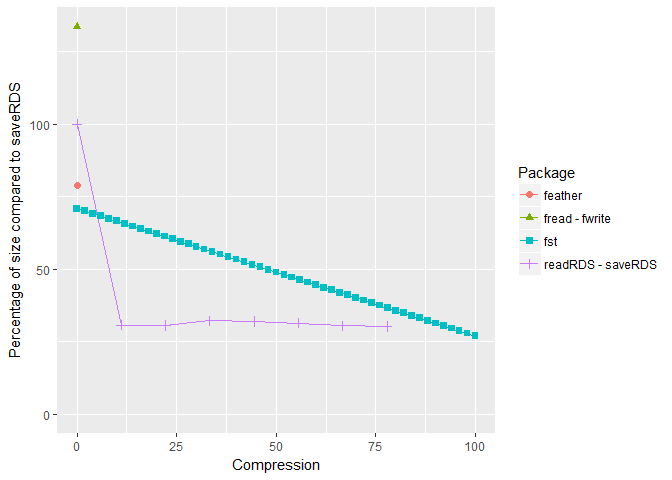
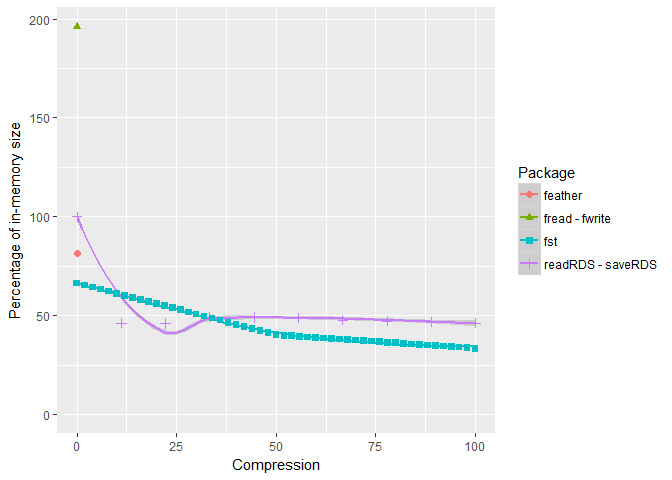
Update README with benchmarks on Xeon CPU

diff --git a/README.md b/README.md
@@ -41,7 +41,7 @@ nrOfRows <- 1e7
 x <- data.frame(
   Integers = 1:nrOfRows,  # integer
   Logicals = sample(c(TRUE, FALSE, NA), nrOfRows, replace = TRUE),  # logical
-  Factors = factor(sample(state.name, nrOfRows, replace = TRUE)),  # text
+  Text = factor(sample(state.name, nrOfRows, replace = TRUE)),  # text
   Numericals = runif(nrOfRows, 0.0, 100),  # numericals
   stringsAsFactors = FALSE)
 
@@ -64,7 +64,7 @@ With `read.fst` you can access a selection of rows from the stored data frame by
 You will notice that the read times for this small subset are very short because `read.fst` (almost) only touches the on-disk data from within the selected range. Specific columns can be selected with:
 
 ``` r
-  read.fst("dataset.fst", c("Logicals", "Factors"), 2000, 4990) # subset rows and columns
+  read.fst("dataset.fst", c("Logicals", "Text"), 2000, 4990) # subset rows and columns
 ```
 
 Here, only data from the selected rows and columns are deserialized from file.
@@ -82,12 +82,14 @@ For this particular data frame the on-disk size of `x` is less than 35 percent o
 
 ![](README-plot-1.png)
 
-Note that the on-disk size of a csv file is usually larger than the in-memory size (here with a factor of about 2). Obviously, csv files are text-based and it's no surprise that deserializing from text-based sources takes more time (due to neccessary text parsing). Method `fread` from the `data.table` package actually has an impressive performance.
+Note that the on-disk size of a csv file is usually larger than the in-memory size (here with a factor of about 2). Obviously, csv files are text-based and it's no surprise that deserializing from text-based sources takes more time (due to neccessary text parsing). For a non-binary-file writer, method `fwrite` from the `data.table` package actually has a very impressive performance! There are only 10 settings for compression in `saveRDS` (gzip mode), which have been scaled up from 0 (uncompressed) to 100 (setting 9) for easier comparison.
 
 The read and write speeds measured in the same benchmark:
 
 ![](README-benchmark-1.png)
 
-There are only 10 settings for compression in `saveRDS` (gzip mode), which have been scaled up from 0 (uncompressed) to 100 (setting 9) for easier comparison. The read and write speeds reported in the figure are calculated by dividing the in-memory size of the data frame by the measured elapsed time for a read or write operation (more details will follow). As you can see, `fst` achieves very high read and write speeds, even for compressed data. For this benchmark, a modest laptop was used with a Core i7-4710HQ CPU @ 2.5GHz (but using a high-end PCI-e 3.0 x4 SSD to cope with the large speeds).
+The read and write speeds reported in the figure are calculated by dividing the in-memory size of the data frame by the measured elapsed time for a read or write operation (more details will follow). As you can see, `fst` achieves very high read and write speeds, even for compressed data. For this benchmark, a Intel Xeon E5 CPU was used, running at 2.5 GHz. To cope with the large IO speeds, a OCZ RevoDrive 350 was used with maximum read and write speeds of around 1750 MB/s.
+
+As you can see from the figure, the benchmark measures higher speeds for the lower compression settings. This is due to the fact that the on-disk filesize of the data frame used is actually significantly smaller than the in-memory size. Package `fst` employs several type-specific byte and bit shifters that are used even in uncompressed mode. For example, a single logical value in R takes up 32 bits in memory, and only 2 bits on-disk (there are 3 possible values: `TRUE`, `FALSE`, and `NA`).
 
 > **Note to users**: The binary format used for data storage by the package (the 'fst file format') is expected to evolve in the coming months. Therefore, **`fst` should not be used for long-term data storage**.
